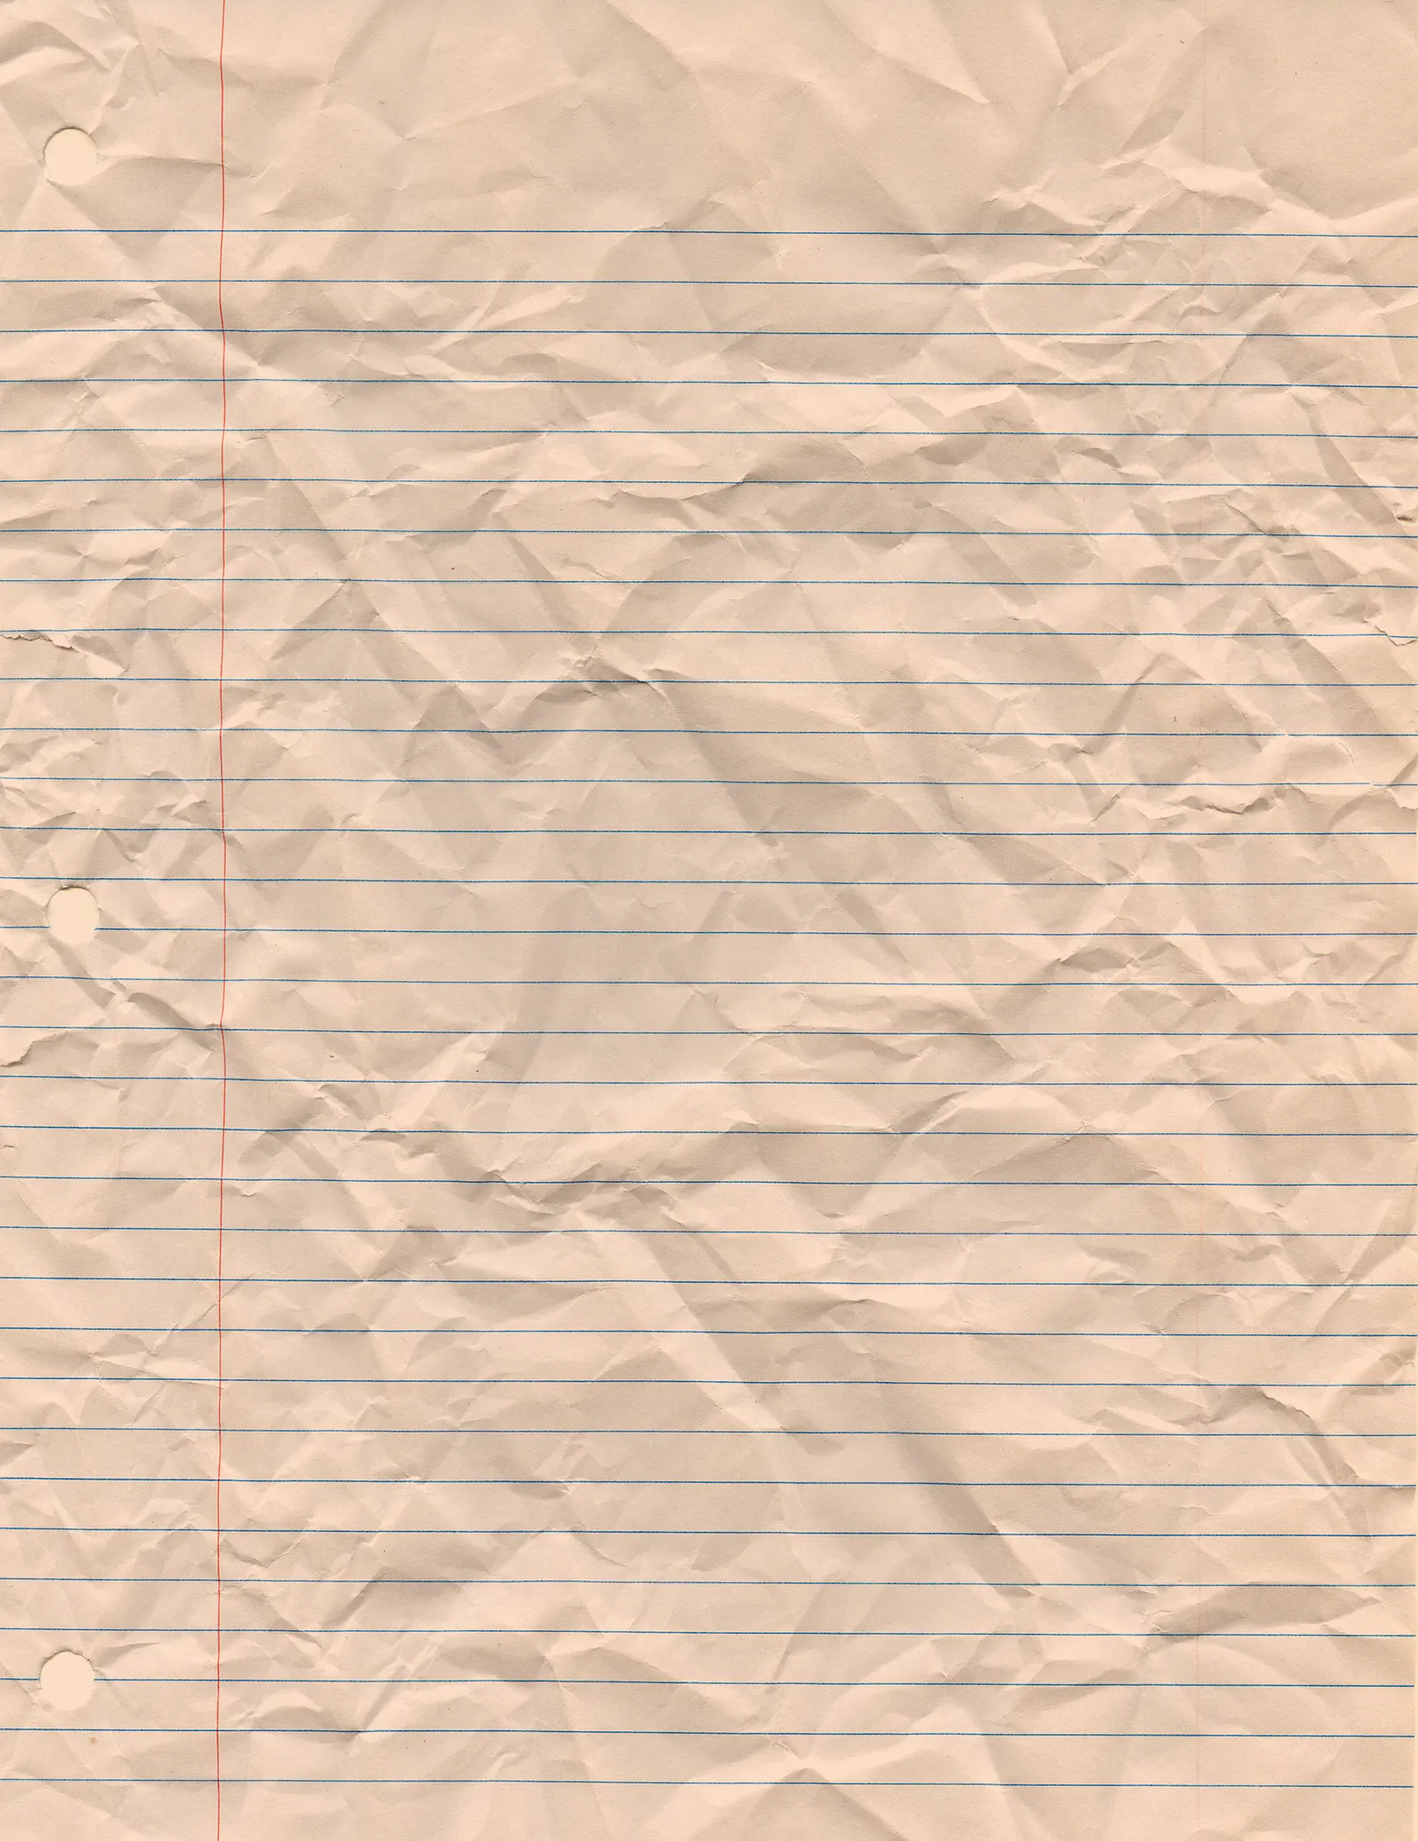
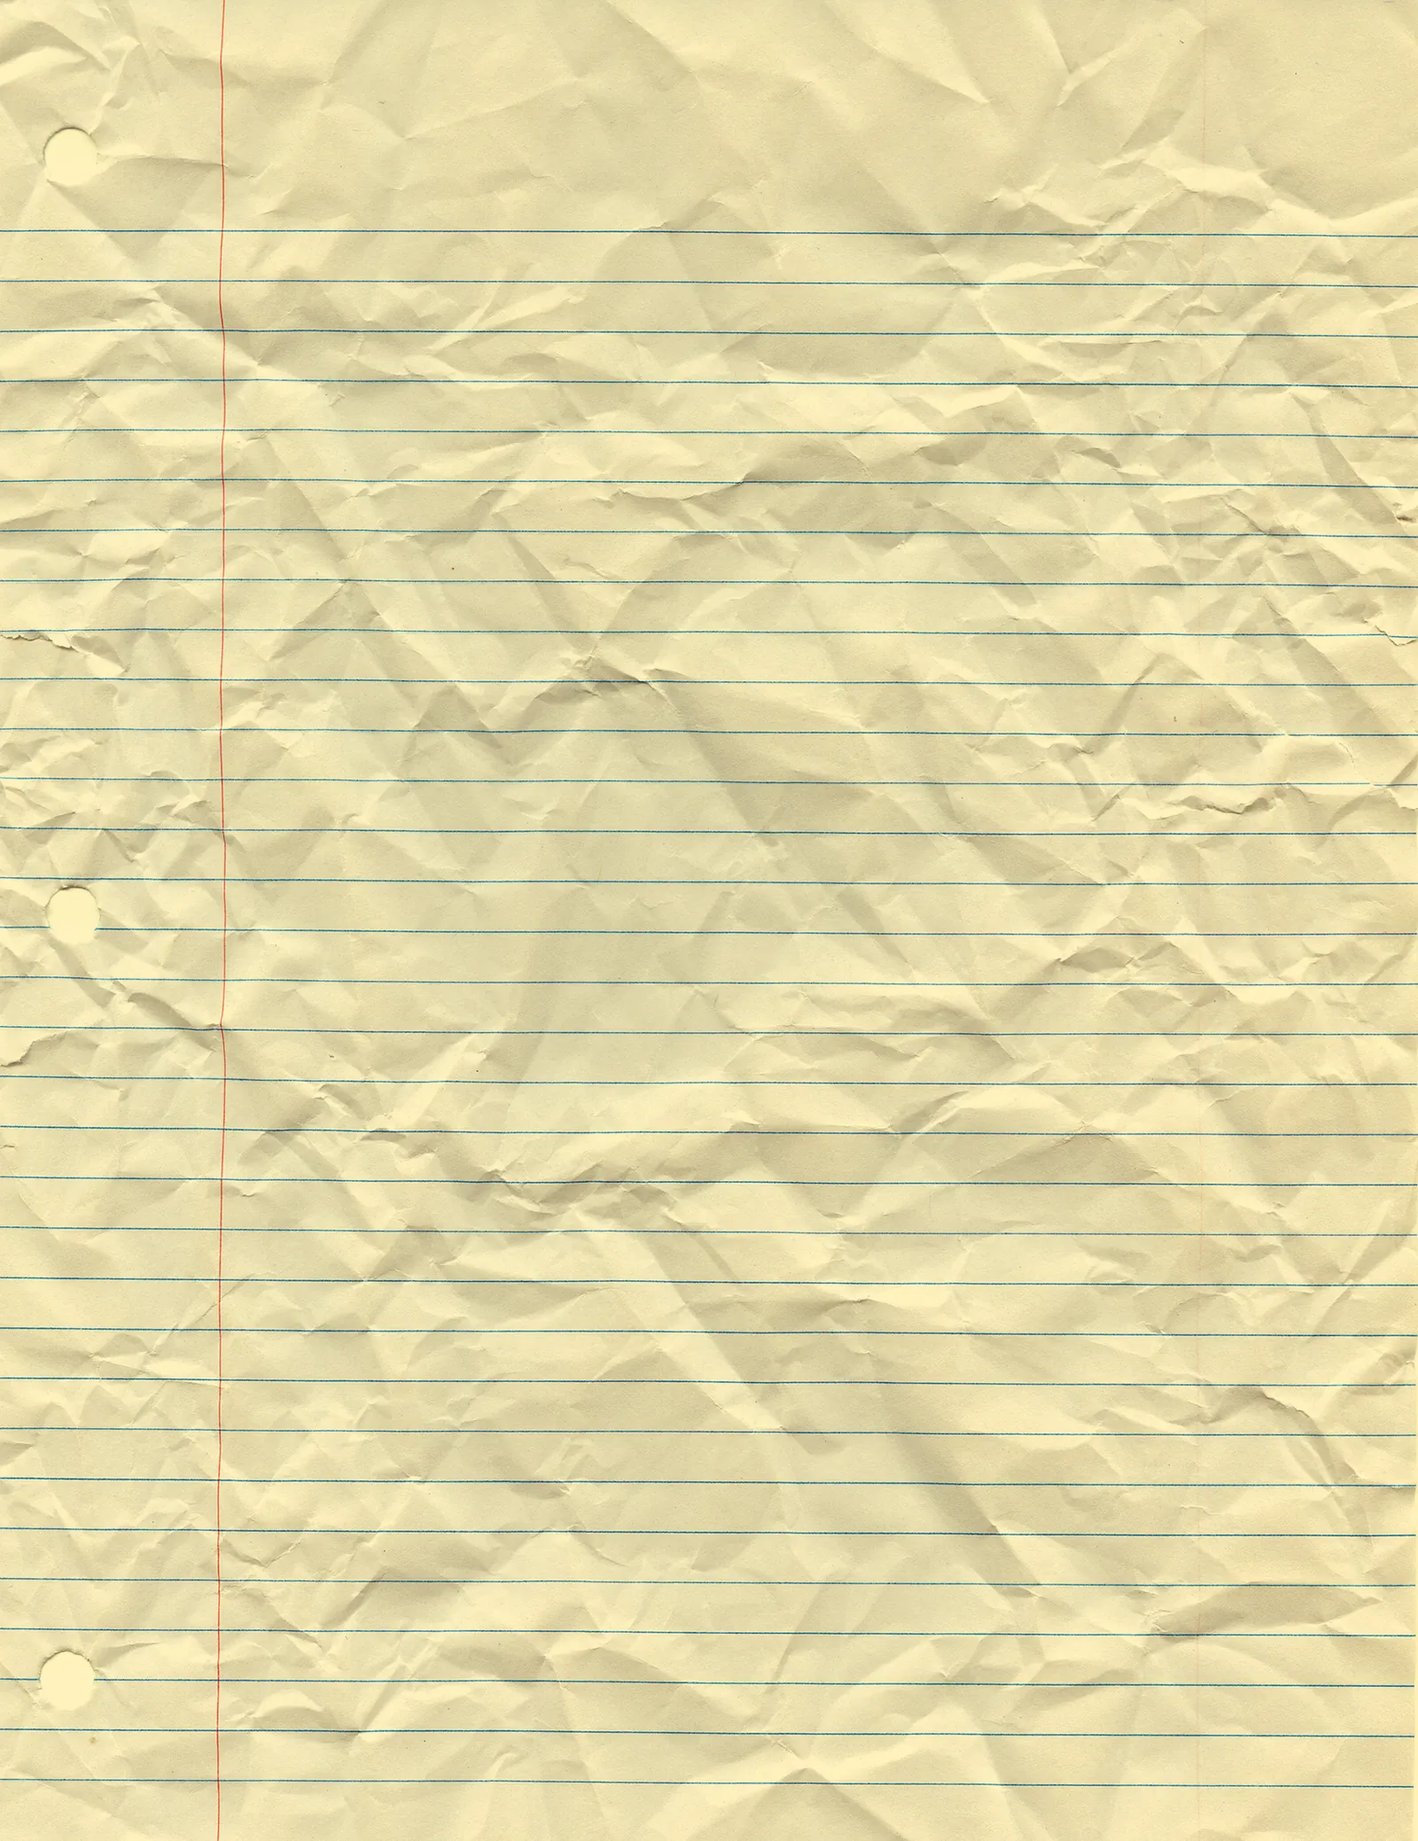
Yellow paper, centred title, front caption, Instagram download, share image, Ms.Williams link

diff --git a/index.html b/index.html
@@ -3,9 +3,18 @@
 <head>
 <meta charset="utf-8">
 <meta name="viewport" content="width=device-width, initial-scale=1, viewport-fit=cover">
-<meta name="theme-color" content="#f1f0ee">
+<meta name="theme-color" content="#f1e7c4">
 <meta property="og:title" content="Riot Font">
 <meta property="og:description" content="A free, hand-drawn fan font in three styles. Designed by a fan for other fans.">
+<meta property="og:type" content="website">
+<meta property="og:url" content="https://cartoonsforsquares.github.io/riot-paramore/">
+<meta property="og:image" content="https://cartoonsforsquares.github.io/riot-paramore/kit/og.jpg">
+<meta property="og:image:width" content="1200">
+<meta property="og:image:height" content="630">
+<meta property="og:image:alt" content="RIOT! written in the orange Marker style on yellow notebook paper with doodled stars">
+<meta name="twitter:card" content="summary_large_image">
+<link rel="icon" type="image/png" href="kit/favicon.png">
+<link rel="apple-touch-icon" href="kit/apple-touch-icon.png">
 </head>
 <body>
 <title>Riot Font</title>
@@ -19,7 +28,7 @@
    One paper look, so no dark variant. */
 :root {
   color-scheme: light;
-  --paper: #f3dccb;   /* under the orange-tinted notebook paper */
+  --paper: #f1e7c4;   /* under the yellow-tinted notebook paper */
   --ink: #141212;
   --ink-soft: #4e4947;
   --orange: #f6873a;
@@ -54,9 +63,11 @@ button:focus-visible, textarea:focus-visible, input:focus-visible, a:focus-visib
 .small { font-size: 10.5px; letter-spacing: .14em; text-transform: uppercase; color: var(--ink-soft); }
 
 /* ---------- hero: RIOT! in orange at the very top, then the one-line description ---------- */
-.hero { display: grid; justify-items: center; text-align: center; gap: calc(var(--u) * 18); }
-.hero h1 { margin: calc(var(--u) * 40) 0 0; color: var(--hero-orange); font: 400 calc(var(--u) * 236)/1 'Riot Marker'; letter-spacing: .05em; white-space: nowrap;
-  width: max-content; position: relative; left: 50%; transform: translateX(-50%); justify-self: start; }   /* centred even when wider than the column */
+.hero { display: grid; grid-template-columns: minmax(0, 1fr); justify-items: center; text-align: center; gap: calc(var(--u) * 18); }
+/* The title can be wider than the column, so it's centred on the page by hand; the left padding
+   balances the letter spacing that trails the "!", and --nudge (set by the script) centres the ink itself. */
+.hero h1 { margin: calc(var(--u) * 40) 0 0; color: var(--hero-orange); font: 400 calc(var(--u) * 200)/1 'Riot Marker'; letter-spacing: .05em; padding-left: .05em;
+  white-space: nowrap; width: max-content; position: relative; left: 50%; transform: translateX(calc(-50% + var(--nudge, 0px))); justify-self: start; }
 /* the first headline sits close under the title */
 .hero + section { margin-top: calc(var(--gap) * -1 + var(--u) * 70); }
 
@@ -70,7 +81,7 @@ section:nth-of-type(odd) .strip { --tilt: -1.2deg; }
 section:nth-of-type(even) .strip { --tilt: 1deg; }
 .body { display: grid; grid-template-columns: minmax(0, 1fr); gap: 16px; }
 /* text blocks: a scrap of plain crumpled white paper, slightly crooked */
-.note { position: relative; padding: max(24px, calc(var(--u) * 40)) max(22px, calc(var(--u) * 44)); background: #fbfaf8 url(kit/note-paper.webp) center / cover;
+.note { position: relative; text-align: center; padding: max(24px, calc(var(--u) * 40)) max(22px, calc(var(--u) * 44)); background: #fbfaf8 url(kit/note-paper.webp) center / cover;
   box-shadow: 0 1px 1px rgba(30, 20, 10, .08), 0 calc(var(--u) * 12) calc(var(--u) * 26) calc(var(--u) * -8) rgba(30, 20, 10, .28);
   transform: rotate(var(--tilt-note, .5deg)); }
 section:nth-of-type(even) .note { --tilt-note: -.5deg; }
@@ -94,12 +105,12 @@ section:nth-of-type(even) .note { --tilt-note: -.5deg; }
 /* ---------- type test ---------- */
 .preview { min-height: calc(var(--u) * 200); display: grid; align-items: center; overflow-wrap: break-word; white-space: pre-wrap; text-align: center;
   font: 400 var(--size, 80px)/1.2 var(--riot); }
-.write { display: grid; gap: 4px; }
+.write { display: grid; gap: 4px; justify-items: center; }
+.write textarea { text-align: center; }
 textarea { width: 100%; font: 500 16px/1.5 var(--body); color: var(--ink); background: rgba(255, 255, 255, .85); border: 1px solid var(--line); border-radius: 4px;
   padding: 8px 10px; resize: vertical; min-height: 44px; }
-.size { display: flex; gap: 12px; align-items: center; flex-wrap: wrap; }
+.size { display: flex; gap: 12px; align-items: center; justify-content: center; flex-wrap: wrap; }
 input[type=range] { flex: 1; min-width: 140px; max-width: 240px; accent-color: var(--ink); }
-.size .pill { margin-left: auto; }
 #pngStatus:empty { display: none; }
 
 /* ---------- make a post card: a 6x4 card drawn on two canvases that flip ---------- */
@@ -115,8 +126,9 @@ input[type=range] { flex: 1; min-width: 140px; max-width: 240px; accent-color: v
 #pcFront.has-photo, #pcBack { cursor: grab; }
 #pcFront.has-photo:active, #pcBack:active { cursor: grabbing; }
 .pc-controls { display: grid; gap: 14px; }
-.pc-group { display: grid; gap: 8px; }
-.pc-row { display: flex; gap: 10px; align-items: center; flex-wrap: wrap; }
+.pc-group { display: grid; gap: 8px; justify-items: center; }
+.pc-group > input, .pc-group > textarea { text-align: center; }
+.pc-row { display: flex; gap: 10px; align-items: center; justify-content: center; flex-wrap: wrap; }
 .pc-row input[type=range] { max-width: 200px; }
 .pc-controls input[type=text] { width: 100%; font: 500 16px/1.5 var(--body); color: var(--ink); background: rgba(255, 255, 255, .85); border: 1px solid var(--line);
   border-radius: 4px; padding: 8px 10px; }
@@ -126,7 +138,10 @@ input[type=range] { flex: 1; min-width: 140px; max-width: 240px; accent-color: v
 .visually-hidden { position: absolute; width: 1px; height: 1px; overflow: hidden; clip: rect(0 0 0 0); white-space: nowrap; }
 .pc-save { display: flex; gap: 10px; flex-wrap: wrap; justify-content: center; }
 #pcStatus:empty { display: none; }
-.pc-stickers { display: flex; gap: 10px; flex-wrap: wrap; }
+.swatch { width: 30px; height: 30px; border-radius: 50%; background: var(--c); border: 1px solid rgba(20, 18, 18, .35); cursor: pointer; position: relative; }
+.swatch[aria-pressed=true] { outline: 2px solid var(--ink); outline-offset: 3px; }
+.swatch::after { content: ''; position: absolute; inset: -6px; }
+.pc-stickers { display: flex; gap: 10px; flex-wrap: wrap; justify-content: center; }
 .pc-stickers button { width: 64px; height: 64px; padding: 8px; background: rgba(255, 255, 255, .7); border: 1px solid var(--line); border-radius: 6px; cursor: pointer; }
 .pc-stickers button:hover { background: #fff; transform: rotate(-6deg); }
 .pc-stickers img { width: 100%; height: 100%; object-fit: contain; display: block; }
@@ -135,7 +150,7 @@ input[type=range] { flex: 1; min-width: 140px; max-width: 240px; accent-color: v
 
 /* ---------- install: three little white tags ---------- */
 .tags { display: grid; grid-template-columns: repeat(3, 1fr); gap: 12px; }
-.tag { background: #fff; border: 1px solid var(--line); padding: 12px 12px 14px; display: grid; gap: 4px; align-content: start; font-size: 13px; transform: rotate(var(--r)); }
+.tag { background: #fff; border: 1px solid var(--line); padding: 12px 12px 14px; display: grid; gap: 4px; align-content: start; justify-items: center; font-size: 13px; transform: rotate(var(--r)); }
 .tag:nth-child(1) { --r: -1.5deg; } .tag:nth-child(2) { --r: 1deg; } .tag:nth-child(3) { --r: -.5deg; }
 .fine { font-size: 12.5px; color: var(--ink-soft); }
 
@@ -147,6 +162,8 @@ input[type=range] { flex: 1; min-width: 140px; max-width: 240px; accent-color: v
 .get button:active .strip { transform: rotate(-3deg) translateY(1px) scale(.98); }
 #status { min-height: 1.3em; }
 footer { text-align: center; }
+.more { display: grid; justify-items: center; gap: 10px; margin-top: calc(var(--gap) * -.5); }
+a.pill { text-decoration: none; display: inline-flex; align-items: center; }
 
 @media (max-width: 760px) {
   :root { --u: calc(100vw / 720); --text: 14.5px; --gap: 96px; }
@@ -154,7 +171,7 @@ footer { text-align: center; }
   .chars { grid-template-columns: repeat(7, 1fr); }
   .chars span { font-size: 30px; }
   .sample { font-size: 11vw; }
-  .size .pill { margin-left: 0; width: 100%; }
+  .size .pill { width: 100%; }
   input[type=range] { max-width: none; }
   .tags { grid-template-columns: 1fr; }
   .tag { --r: 0deg !important; }
@@ -224,6 +241,20 @@ footer { text-align: center; }
           </div>
           <div class="pc-row"><label class="small" for="pcZoom">Zoom</label><input id="pcZoom" type="range" min="100" max="300" value="100"></div>
           <p class="fine">Drag the photo to move it.</p>
+          <label class="small" for="pcCap">Caption on the front</label>
+          <input id="pcCap" type="text" maxlength="28" spellcheck="false" placeholder="e.g. Front row!">
+          <div class="pc-row" role="group" aria-label="Caption style">
+            <button class="pill" type="button" data-cap-style="Marker" aria-pressed="true">Marker</button>
+            <button class="pill" type="button" data-cap-style="Scrawl" aria-pressed="false">Scrawl</button>
+            <button class="pill" type="button" data-cap-style="Scribble" aria-pressed="false">Scribble</button>
+          </div>
+          <div class="pc-row" role="group" aria-label="Caption colour">
+            <button class="swatch" type="button" data-cap-color="#ffffff" aria-label="White" aria-pressed="true" style="--c: #ffffff"></button>
+            <button class="swatch" type="button" data-cap-color="#141212" aria-label="Black" aria-pressed="false" style="--c: #141212"></button>
+            <button class="swatch" type="button" data-cap-color="#ef6420" aria-label="Orange" aria-pressed="false" style="--c: #ef6420"></button>
+            <button class="swatch" type="button" data-cap-color="#f6c12e" aria-label="Yellow" aria-pressed="false" style="--c: #f6c12e"></button>
+          </div>
+          <p class="fine">The caption moves, resizes and turns like a sticker.</p>
         </div>
         <div class="pc-group">
           <span class="small">Stickers</span>
@@ -256,6 +287,7 @@ Franklin, TN</textarea>
         <div class="pc-save">
           <button class="pill" type="button" id="pcSaveFront">Download front</button>
           <button class="pill" type="button" id="pcSaveBack">Download back</button>
+          <button class="pill" type="button" id="pcSaveInsta">Download for Instagram</button>
         </div>
         <p class="fine" id="pcStatus" role="status"></p>
       </div>
@@ -286,6 +318,11 @@ Franklin, TN</textarea>
     <button type="button" data-download aria-label="Download the Riot font"><span class="strip"><img src="kit/h-download-font.webp" alt=""></span></button>
     <div id="status" class="small" role="status"></div>
   </div>
+
+  <aside class="more" aria-label="More fan fonts">
+    <span class="small">More fan fonts</span>
+    <a class="pill" href="https://cartoonsforsquares.github.io/ms-williams/" target="_blank" rel="noopener">Ms.Williams ↗</a>
+  </aside>
 
   <footer class="small">Designed by a fan for other fans</footer>
 </div>
@@ -478,16 +515,28 @@ function drawBack(clean) {
 }
 
 /* stickers: each is { n, x, y, s, r } in card pixels (centre, width, turn) */
-function stSize(st) { const im = STICKERS[st.n]; return [st.s, st.s * (im.naturalHeight / im.naturalWidth || 1)]; }
+const meas = document.createElement('canvas').getContext('2d');
+function stSize(st) {
+  if (st.t === 'text') { meas.font = `${st.s}px "Riot ${st.style}"`; return [Math.max(st.s, meas.measureText(st.text).width), st.s * .82]; }
+  const im = STICKERS[st.n]; return [st.s, st.s * (im.naturalHeight / im.naturalWidth || 1)];
+}
 function handleR(side) { return 18 * PC.W / $(side === 'front' ? 'pcFront' : 'pcBack').getBoundingClientRect().width; }
 function drawStickers(g, side, clean) {
   pc.stickers[side].forEach((st, i) => {
-    const im = STICKERS[st.n]; if (!im.complete || !im.naturalWidth) return;
     const [w, h] = stSize(st);
-    g.save(); g.translate(st.x, st.y); g.rotate(st.r);
-    g.shadowColor = 'rgba(30, 20, 10, .25)'; g.shadowBlur = 10; g.shadowOffsetY = 4;
-    g.drawImage(im, -w / 2, -h / 2, w, h);
-    g.restore();
+    if (st.t === 'text') {
+      g.save(); g.translate(st.x, st.y); g.rotate(st.r);
+      g.font = `${st.s}px "Riot ${st.style}"`; g.textAlign = 'center'; g.textBaseline = 'alphabetic'; g.fillStyle = st.color;
+      g.shadowColor = st.color === '#141212' ? 'rgba(255, 255, 255, .35)' : 'rgba(0, 0, 0, .35)'; g.shadowBlur = 8; g.shadowOffsetY = 3;
+      g.fillText(st.text, 0, st.s * .36);   // caps are 0.72 em tall: this centres them on the box
+      g.restore();
+    } else {
+      const im = STICKERS[st.n]; if (!im.complete || !im.naturalWidth) return;
+      g.save(); g.translate(st.x, st.y); g.rotate(st.r);
+      g.shadowColor = 'rgba(30, 20, 10, .25)'; g.shadowBlur = 10; g.shadowOffsetY = 4;
+      g.drawImage(im, -w / 2, -h / 2, w, h);
+      g.restore();
+    }
     if (clean || !pc.sel || pc.sel.side !== side || pc.sel.i !== i) return;
     const R = handleR(side);
     g.save(); g.translate(st.x, st.y); g.rotate(st.r);
@@ -556,7 +605,7 @@ let drag = null;
     drag = null;
     if (pc.sel && pc.sel.side === side) {
       const st = list[pc.sel.i], [w, h] = stSize(st), [lx, ly] = local(st, x, y);
-      if (Math.hypot(lx + w / 2, ly + h / 2) < R) { list.splice(pc.sel.i, 1); pc.sel = null; redraw(); return; }
+      if (Math.hypot(lx + w / 2, ly + h / 2) < R) { if (st.t === 'text') $('pcCap').value = ''; list.splice(pc.sel.i, 1); pc.sel = null; redraw(); return; }
       if (Math.hypot(lx - w / 2, ly - h / 2) < R) {
         drag = { mode: 'turn', st, d0: Math.hypot(x - st.x, y - st.y), a0: Math.atan2(y - st.y, x - st.x), s0: st.s, r0: st.r };
       }
@@ -582,7 +631,7 @@ let drag = null;
     if (drag.mode === 'move') { drag.st.x = drag.sx + x - drag.x; drag.st.y = drag.sy + y - drag.y; redraw(); }
     else if (drag.mode === 'turn') {
       const st = drag.st;
-      st.s = Math.max(80, Math.min(1400, drag.s0 * Math.hypot(x - st.x, y - st.y) / drag.d0));
+      st.s = Math.max(st.t === 'text' ? 40 : 80, Math.min(1400, drag.s0 * Math.hypot(x - st.x, y - st.y) / drag.d0));
       st.r = drag.r0 + Math.atan2(y - st.y, x - st.x) - drag.a0; redraw();
     } else if (drag.mode === 'pan') {
       pc.px = drag.px + (e.clientX - drag.x) * drag.k; pc.py = drag.py + (e.clientY - drag.y) * drag.k; drawFront();
@@ -620,7 +669,71 @@ async function saveSide(side) {
 $('pcSaveFront').onclick = () => saveSide('front');
 $('pcSaveBack').onclick = () => saveSide('back');
 
+/* caption: one text element on the front, set in Riot */
+const cap = { style: 'Marker', color: '#ffffff' };
+function caption() { return pc.stickers.front.find(st => st.t === 'text'); }
+function syncCaption() {
+  const text = $('pcCap').value.trim(), list = pc.stickers.front;
+  let st = caption();
+  if (!text) { if (st) { list.splice(list.indexOf(st), 1); pc.sel = null; } redraw(); return; }
+  if (!st) { st = { t: 'text', x: PC.W / 2, y: PC.H * .8, s: 150, r: -.04 }; list.push(st); }
+  Object.assign(st, { text, style: cap.style, color: cap.color });
+  setSide('front'); pc.sel = { side: 'front', i: list.indexOf(st) }; redraw();
+}
+$('pcCap').addEventListener('input', syncCaption);
+$('pcCap').addEventListener('focus', () => setSide('front'));
+document.querySelectorAll('[data-cap-style]').forEach(b => b.onclick = () => {
+  cap.style = b.dataset.capStyle;
+  document.querySelectorAll('[data-cap-style]').forEach(x => x.setAttribute('aria-pressed', String(x === b))); syncCaption();
+});
+document.querySelectorAll('[data-cap-color]').forEach(b => b.onclick = () => {
+  cap.color = b.dataset.capColor;
+  document.querySelectorAll('[data-cap-color]').forEach(x => x.setAttribute('aria-pressed', String(x === b))); syncCaption();
+});
+
+/* Instagram: both sides on one 1080 × 1350 post, front above back, on the notebook paper */
+const sheet = new Image(); sheet.src = 'kit/paper-top.webp';
+$('pcSaveInsta').onclick = async () => {
+  const say = t => { $('pcStatus').textContent = t; };
+  const c = document.createElement('canvas'); c.width = 1080; c.height = 1350;
+  const g = c.getContext('2d');
+  if (!sheet.complete) await new Promise(r => { sheet.onload = sheet.onerror = r; });
+  if (sheet.naturalWidth) { const k = Math.max(1080 / sheet.naturalWidth, 1350 / sheet.naturalHeight); g.drawImage(sheet, 0, 0, sheet.naturalWidth * k, sheet.naturalHeight * k); }
+  else { g.fillStyle = '#f1e7c4'; g.fillRect(0, 0, 1080, 1350); }
+  drawFront(true); drawBack(true);
+  const W = 900, H = 600;
+  [['pcFront', 355, -.03], ['pcBack', 1000, .025]].forEach(([id, cy, r]) => {
+    g.save(); g.translate(540, cy); g.rotate(r);
+    g.shadowColor = 'rgba(30, 20, 10, .35)'; g.shadowBlur = 28; g.shadowOffsetY = 12;
+    g.drawImage($(id), -W / 2, -H / 2, W, H); g.restore();
+  });
+  redraw();
+  const blob = await new Promise(r => c.toBlob(r, 'image/png'));
+  const name = 'riot-postcard-instagram.png', file = new File([blob], name, { type: 'image/png' });
+  if (matchMedia('(pointer: coarse)').matches && navigator.canShare && navigator.canShare({ files: [file] })) {
+    try { await navigator.share({ files: [file] }); return; }
+    catch (err) { if (err && err.name === 'AbortError') return; }
+  }
+  await saveBlob(name, blob, 'image/png', say);
+};
+
 STICKERS.forEach(im => im.onload = redraw);
+
+/* centre the title by its ink, not its box (the "!" is thin, so the box centre looks off) */
+function centerTitle() {
+  const h = document.querySelector('.hero h1'), cs = getComputedStyle(h), ls = parseFloat(cs.letterSpacing) || 0, pad = parseFloat(cs.paddingLeft) || 0;
+  meas.font = cs.font; const chars = [...h.textContent];
+  let x = pad, inkL = null, inkR = 0;
+  chars.forEach((ch, i) => {
+    const m = meas.measureText(ch);
+    if (i === 0) inkL = x - m.actualBoundingBoxLeft;
+    if (i === chars.length - 1) inkR = x + m.actualBoundingBoxRight;
+    x += m.width + ls;
+  });
+  h.style.setProperty('--nudge', ((h.offsetWidth / 2) - (inkL + inkR) / 2).toFixed(1) + 'px');
+}
+document.fonts.load(`40px "Riot Marker"`, 'R').then(centerTitle);
+addEventListener('resize', centerTitle);
 drawFront(); drawBack();
 Promise.all(['120px "Riot Marker"', '120px "Riot Scrawl"', '120px "Riot Scribble"', '40px "Beth Ellen"', '500 36px Geist']
   .map(f => document.fonts.load(f, 'A'))).then(() => { drawFront(); drawBack(); });
